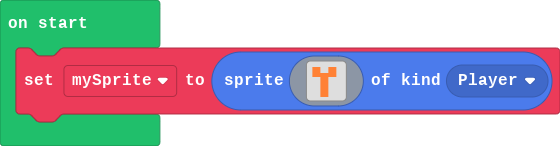
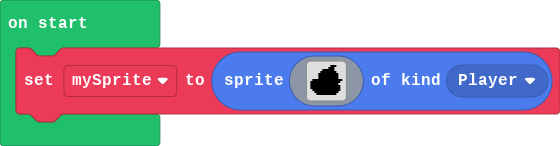
Update main.blocks, main.ts

Changed region(s): [[0.5464, 0.4384, 0.6071, 0.6575]]

diff --git a/main.ts b/main.ts
@@ -1,18 +1,18 @@
 let mySprite = sprites.create(img`
+    . . . . . . . . . . f f f . . . 
+    . . . . . . . . . f f f . . . . 
+    . . . . . . f f f f f f . . . . 
+    . . . . . f f f f f f f f . . . 
+    . . . . f f f f f f f f f f . . 
+    . . . . f f f f f f f f f f . . 
+    . . . . f f f f f f f f f f . . 
+    . f f f f f f f f f f f f f f f 
+    f f f f f f f f f f f f f f f . 
+    f f f f f f f f f f f f f f . . 
+    f f f f f f f f f f f f f f f . 
+    f f f f f f f f f f f f f f f . 
+    . f f f f f f f f f f f f f f . 
+    . . f f f f f f f f f f f f . . 
+    . . . f f f f f f f f f f . . . 
     . . . . . . . . . . . . . . . . 
-    . 4 4 4 4 . . . . 4 4 4 4 . . . 
-    . 4 4 4 4 . . . . 4 4 4 4 . . . 
-    . 4 4 4 4 . . . . 4 4 4 4 . . . 
-    . 4 4 4 4 4 4 4 4 4 4 4 4 . . . 
-    . 4 4 4 4 4 4 4 4 4 4 4 4 . . . 
-    . . . . . 4 4 4 4 . . . . . . . 
-    . . . . . 4 4 4 4 . . . . . . . 
-    . . . . . 4 4 4 4 . . . . . . . 
-    . . . . . 4 4 4 4 . . . . . . . 
-    . . . . . 4 4 4 4 . . . . . . . 
-    . . . . . 4 4 4 4 . . . . . . . 
-    . . . . . 4 4 4 4 . . . . . . . 
-    . . . . . 4 4 4 4 . . . . . . . 
-    . . . . . 4 4 4 4 . . . . . . . 
-    . . . . . 4 4 4 4 . . . . . . . 
     `, SpriteKind.Player)
